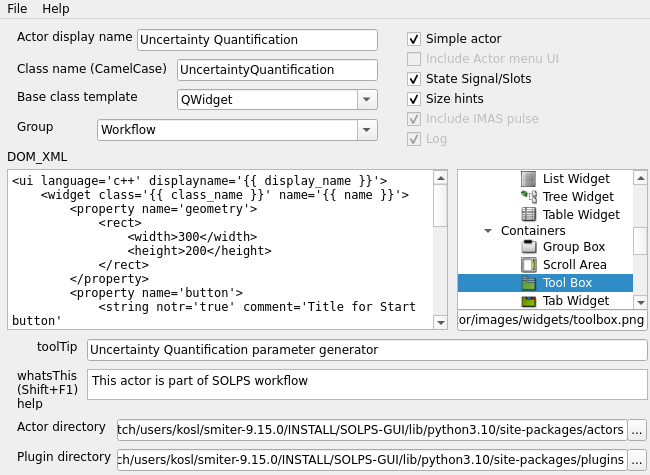
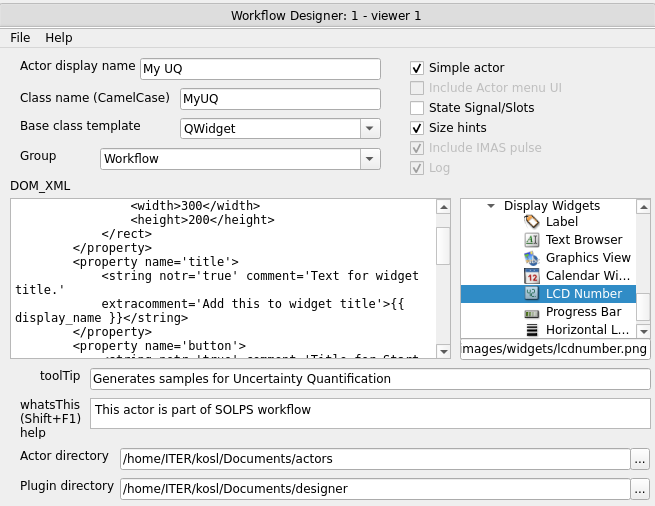
Add UQ Actor generator example tutorial

Changed region(s): [[0.0, 0.0, 1.0, 1.0]]

diff --git a/doc/source/tutorial/uq.rst b/doc/source/tutorial/uq.rst
@@ -65,7 +65,7 @@ Running a UQ study step by step
 
 1. In the :menuselection:`Runs` tab select the case and click its
    ``baserun``.
-2. In the :menuselection:`Initialize Run` tab choose your case (for example
+2. In the :guilabel:`Initialize Run` tab choose your case (for example
    ``UQ_test``) in :menuselection:`Select run dir`. Open the
    :menuselection:`UQ` tab; UQ Setup shows *Base run: UQ_test*.
 3. In UQ Setup check the uncertain inputs (add more with
@@ -167,14 +167,76 @@ Generating Actor
 Select :menuselection:`SOL --> SOLPS --> Actor Generator` and do the
 following settings
 
-  1. Type `Uncertainty Quantification` in :menuselection:`Actor display name`
-  2. Select or type group :menuselection:`group` as `Workflow`
-  3. Add desctiprion under :menuselection:`toolTip`
-  2. Optionally remove pulse XML section from :menuselection:`XML_DOM`
-     since we will node be using it.
-  3. Select an icon in the list of icons
+1. Type `My UQ` in :guilabel:`Actor display name`
+2. Select or type group :guilabel:`group` as `Workflow`
+3. Add desctiprion under :guilabel:`toolTip`
+4. Optionally remove pulse XML section from :menuselection:`XML_DOM`
+   since we will node be using it.
+5. Select an icon in the list of icons
+6. Set :guilabel:`Actor Directory` to :file:`~/Documents/actors` and
+   :guilabel:`Plugin Diretcory` to :file:`~/Documents/plugins`
+   The directory settings can be also set before running the generator
+   with :menuselection:`File --> Preferences --> SOL`
+7. Use :kbd:`CTRL+S` or :menuselection:`File --> Save` to save all actor
+   files in the directories specified. 
 
-The actor generator should look like in the following figure.
+   The actor generator should look like in the following figure.
 
-.. image:: uq-actor1.png
-   :align: center
+   .. image:: uq-actor1.png
+      :align: center
+
+8. The generator already prepared a test workflow with :file:`myuq.ui`
+   file that can be stested by setting :menuselection:`File -->
+   Preferences --> SOL --> Workflow Load UI` to
+   :file:`~/Documents/plugins/myuq.ui` and :guilabel:`Apply` and
+   :guilabel:`OK`
+
+9. Test the default workflow by :menuselection:`SOL --> Workflow ->
+   Load workflow UI` and then :guilabel:`Start` or :guilabel:`Compute`
+   button.
+
+10. Edit :file:`~/Documents/actors/myuq.py` and add replace `compute()` slot
+    with the following
+
+.. code-block:: python
+
+   @Slot()
+   def compute(self):
+        self._running_state = 1
+        self._log.appendPlainText("Generating samples...")
+        try:
+            import openturns
+        except ImportError:
+            QMessageBox.critical(self, 'UQ', 'OpenTURNS is not available in this Python.')
+            return
+        import numpy
+
+        nominal = 1.5
+        spread = 0.1*nominal
+        marginal1 = openturns.Uniform(nominal-spread, nominal+spread)
+        marginal2 = openturns.Uniform(2.0, 3.0)
+        marginal3 = openturns.Uniform(2.5, 3.6)        
+        marginals = [marginal1, marginal2, marginal3]
+        distribution =  openturns.JointDistribution(marginals)
+        distribution.setDescription(["parm_dna", "parm_hci", "parm_hce"])
+        size = 30
+        experiment = openturns.LHSExperiment(distribution, size)
+        samples = numpy.array(experiment.generate())
+        self._log.appendPlainText(str(samples))
+        self.finished.emit()
+        self._running_state = 2       
+
+11. Restart the workflow by pressing :kbd:`ESC` and click in the
+    Workflow area to get new actor code reloaded. Repeating
+    :guilabel:`Compute` will list 30 samples of SOLPS parameters to be
+    changed in each :file:`b2.transport.parameters` sample run.
+
+
+With a help of Artificial Intelligence one may extend the initial
+actor to have a table of parameters to be used for UQ sampling,
+generate modified files and reference baseline case files in
+:file:`runs` directories creation.
+
+Additional actors for batch submission, group postprocessing and
+plotting may be created as shown in this tutorial *Introduction* and
+now found under :file:`solps.ui` worklow tab.
